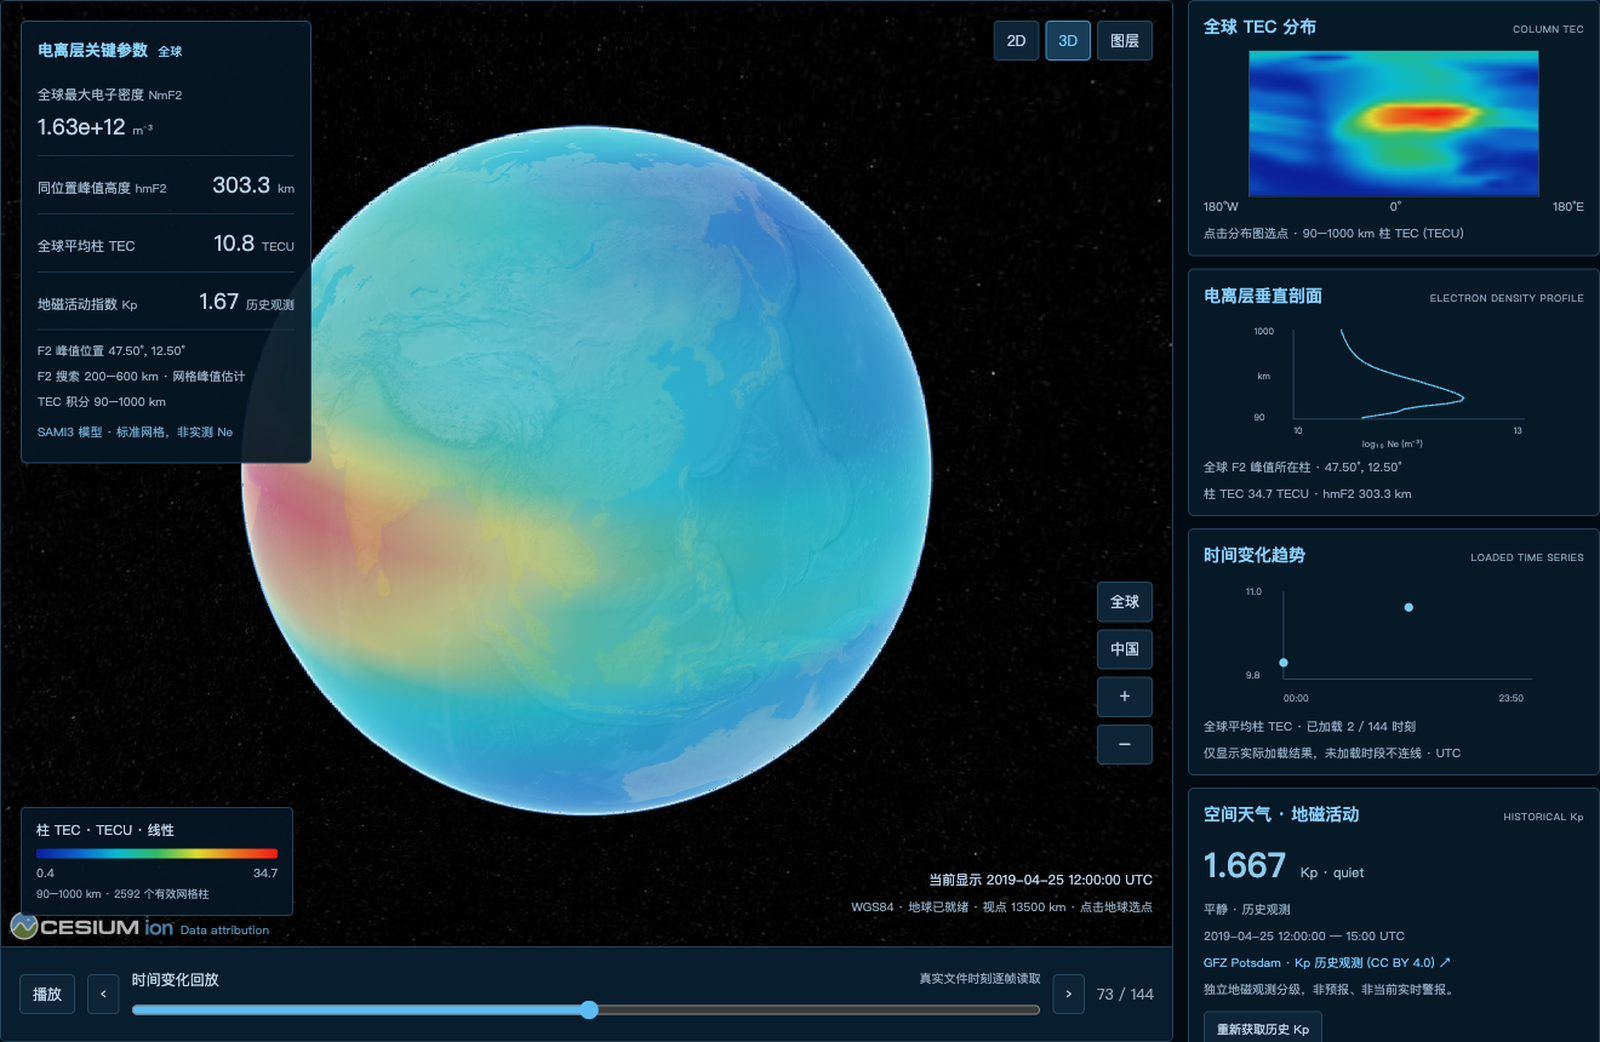
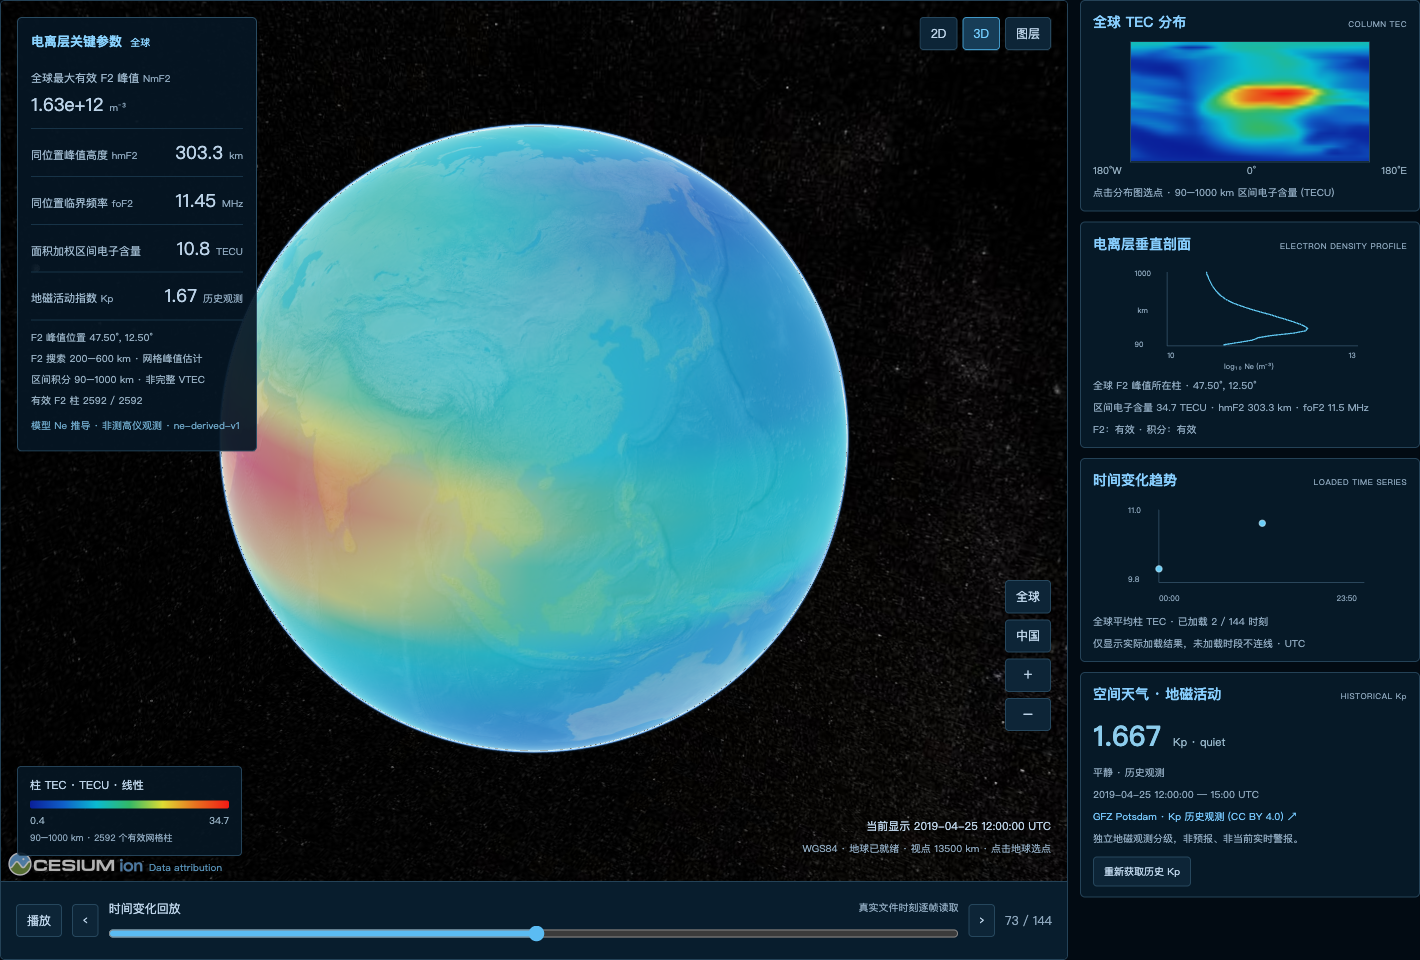
docs: refresh feature gallery with comparison and profile captures

diff --git a/README.md b/README.md
@@ -10,18 +10,16 @@
 [![Vue 3](https://img.shields.io/badge/Vue-3-42b883.svg)](https://vuejs.org/)
 [![CesiumJS](https://img.shields.io/badge/CesiumJS-1.133-6CADDF.svg)](https://cesium.com/platform/cesiumjs/)
 
-[Quick start](#quick-start) · [Features](#features) · [Architecture](#architecture) · [Data formats](#data-formats) · [中文](README.zh-CN.md)
+[Quick start](#quick-start) · [Feature gallery](#screenshots) · [Features](#features) · [Architecture](#architecture) · [中文](README.zh-CN.md)
 
-![CesiumUTC interactive 3D ionosphere volume](docs/assets/hero-ionosphere.png)
+![CesiumUTC global ionosphere overview with TEC, F2 metrics and altitude profile](docs/assets/global-overview.png)
 
 CesiumUTC turns multidimensional ionosphere data into an explorable 3D globe.
 It combines native Cesium GPU voxels, geodetic altitude slices, spatial probes,
 vertical sections, temporal analysis, and SAMI3 NetCDF ingestion in one
 reproducible FastAPI + Vue application.
 
-![CesiumUTC interactive walkthrough](docs/assets/cesiumutc-demo.gif)
-
-[Watch the higher-quality MP4 walkthrough](docs/assets/cesiumutc-demo.mp4)
+[Explore the fresh comparison and profile screenshots](#screenshots) · [Watch the original 3D walkthrough](docs/assets/cesiumutc-demo.mp4)
 
 If CesiumUTC is useful to your research or visualization work, **star this repository** to help others discover it.
 
@@ -53,13 +51,48 @@ The renderer uses local imagery and does not require a Cesium ion token. Determi
 
 ## Screenshots
 
-### Global overview
+Fresh captures from the running application, using imported SAMI3 model output for **25 April 2019**. These are real application views, not mockups or observations. The two temporal views below are **development previews**: their implementation is currently local and is not included in the published source. [Capture settings and availability](docs/SHOWCASE.md).
 
-![Global ionosphere overview](docs/assets/global-overview.png)
+### 1. Compare two UTC timestamps — development preview
 
-### Scientific analysis
+See the reference field, comparison field, **B − A**, and relative change together. A and B share one absolute scale; difference maps use zero-centred scales. Shown: interval electron content, **06:00 → 12:00 UTC**, integrated over **90–1000 km**.
 
-![Ionosphere analysis workspace](docs/assets/analysis-view.png)
+![Two-time comparison of interval electron content: A, B, absolute difference and relative change](docs/assets/temporal-comparison.png)
+
+### 2. Linked 3D curtains and 2D vertical sections
+
+Inspect a latitude, longitude, or drawn-path section. The 3D curtain and 2D plot share the same sampled grid and colour scale; clicking the plot places the corresponding probe in 3D. Shown: **37.5°N**, **200–500 km**, **12:00 UTC**.
+
+![Linked 3D ionosphere curtain and 2D latitude section with a shared sampling marker](docs/assets/vertical-section.png)
+
+### 3. Point profiles against regional statistics
+
+Select a location on the globe or enter coordinates, then compare its electron-density profile with the regional mean. Shown: **117.5°E, 37.5°N**, **12:00 UTC**; altitude is vertical and electron density uses a logarithmic horizontal axis.
+
+![Selected-location electron density profile compared with the regional mean beside the 3D globe](docs/assets/altitude-profile.png)
+
+### 4. Full-day evolution and change rates — development preview
+
+Follow **144 ten-minute frames** at a fixed point, with a separate curve for change per minute. The local workspace also supports common-coverage area averages and interval electron content, NmF2, hmF2, and foF2. Missing values stay missing; these rates are **not GNSS ROT/ROTI**.
+
+![Full-day interval electron content and adjacent per-minute change at a fixed point](docs/assets/derived-time-series.png)
+
+### 5. Multiple geodetic altitude slices
+
+Explore **100, 200, 300, and 400 km** surfaces together over a selected region, with shared scientific colours and configurable transparency. Heights are geodetic, not visually exaggerated.
+
+![Four geodetic altitude slices above East Asia with a shared electron density colour scale](docs/assets/altitude-slices.png)
+
+<details>
+<summary>Original 3D walkthrough · GIF / MP4</summary>
+
+This earlier recording demonstrates the 3D workflow; the screenshots above show the refreshed feature gallery.
+
+![CesiumUTC original interactive 3D walkthrough](docs/assets/cesiumutc-demo.gif)
+
+[Watch the higher-quality MP4](docs/assets/cesiumutc-demo.mp4)
+
+</details>
 
 ## Architecture
 

diff --git a/docs/SHOWCASE.md b/docs/SHOWCASE.md
@@ -1,0 +1,30 @@
+# Feature gallery: capture notes
+
+The [English README](../README.md#screenshots) and [Chinese README](../README.zh-CN.md#截图) use fresh browser captures from 24 September 2026. All displayed fields are imported **SAMI3 model output**, not observations. No raw dataset or runtime database is distributed with these images.
+
+## Availability
+
+The global overview, altitude slices, vertical sections, and single-time point profiles are in the published source. **Two-time derived comparison and derived temporal series are development previews from the local working version; their implementation is not yet in the published source.** Screenshots demonstrate that running version, not a promise that these two workflows are available after cloning the current repository.
+
+## Reproduction settings
+
+| Image | View and settings |
+| --- | --- |
+| `global-overview.png` | Global overview; 2019-04-25 12:00 UTC; interval content 90–1000 km; F2 search 200–600 km. Historical Kp is separately attributed to GFZ Potsdam in the interface. |
+| `temporal-comparison.png` | Derived temporal preview; A 06:00 UTC, B 12:00 UTC on 2019-04-25; interval content 90–1000 km; full spatial extent; shared A/B scale and zero-centred difference scales. |
+| `derived-time-series.png` | Derived temporal preview; 00:00–23:50 UTC on the same day, 144 frames; point 117.5°E / 37.5°N; interval content 90–1000 km; F2 search 200–600 km; maximum adjacent gap 30 minutes. The source-row table is collapsed using its normal control. |
+| `vertical-section.png` | 12:00 UTC; fixed latitude 37.5°N; height 200–500 km; drawn region approximately 102.2–132.3°E / 25.6–43.4°N; regional linear scale. Probe approximately 117.481°E / 37.500°N / 316.67 km. |
+| `altitude-profile.png` | Single-time analysis at 12:00 UTC; point 117.5°E / 37.5°N; global regional mean; 90–1000 km; log₁₀ electron-density axis. |
+| `altitude-slices.png` | Same 12:00 UTC model frame and drawn region; 100/200/300/400 km geodetic slices; shared regional linear scale; scientific slice preset. |
+
+The imported volume uses 72 × 36 × 32 cell-centred samples. Vertical sections use 129 × 128 interpolated samples; that is a display/sampling grid, **not additional source resolution**. Screenshots are cropped to complete application panels so local catalogue identifiers and unrelated controls do not distract from the feature. The scientific values, labels and colour maps are unchanged.
+
+## Interpretation
+
+- Interval electron content covers only the selected height range; it is not automatically full VTEC or GNSS STEC.
+- NmF2, hmF2 and foF2 are derived from model Ne under the selected F2 window and quality rules; foF2 is not an ionosonde observation.
+- A/B differences describe endpoint changes, not continuous evolution, anomaly detection or warnings. Small non-zero reference values can amplify relative percentages.
+- Per-minute derived changes are not GNSS ROT/ROTI. Missing and invalid values are not replaced with zero.
+- A redistributable sample dataset is not yet bundled. To reproduce the workflow, import a compatible dataset following [the setup guide](../SETUP.md); different model runs will produce different fields.
+
+The existing GIF and MP4 remain an **earlier 3D workflow recording**; they were not re-recorded for this gallery update.
